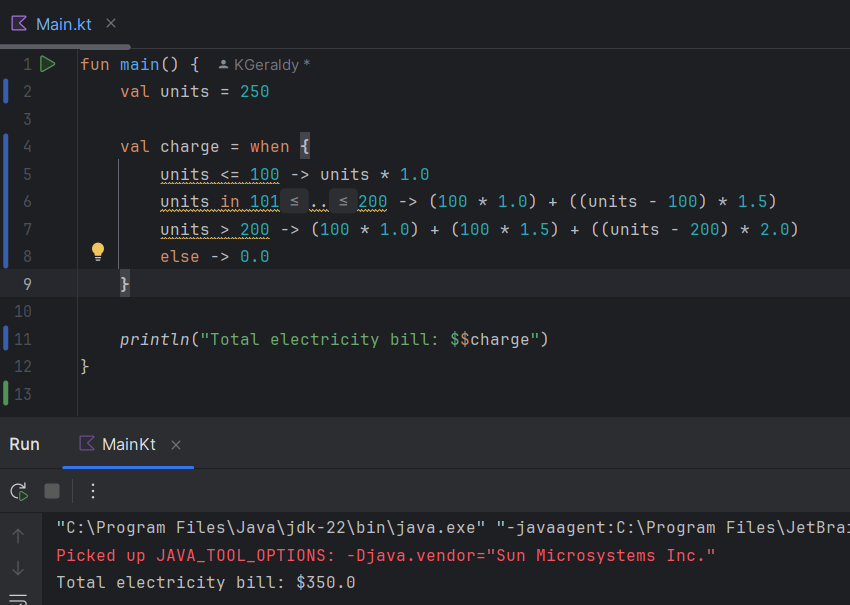
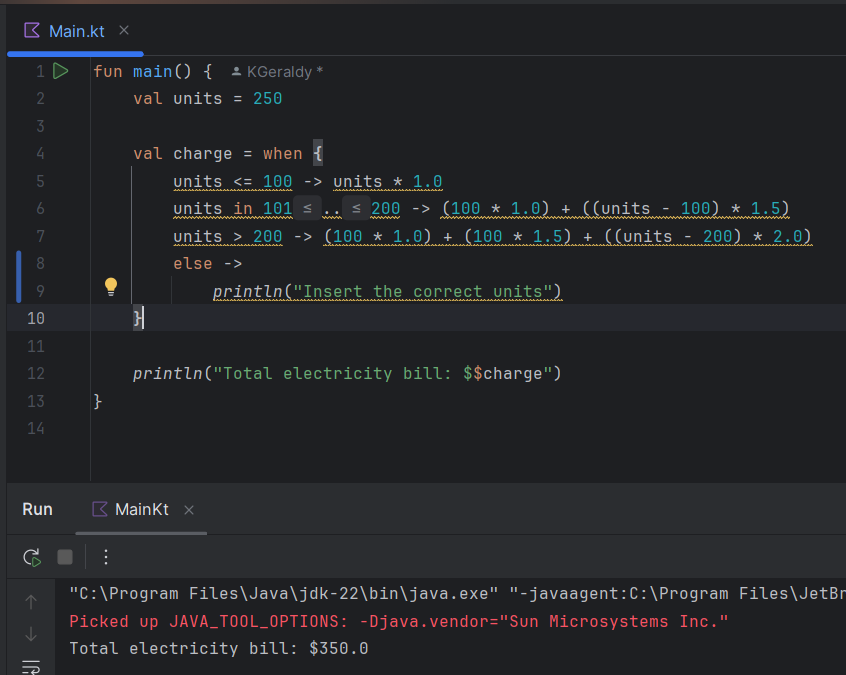
Add story4

diff --git a/exercise/day-1/HelloWorld/src/Main.kt b/exercise/day-1/HelloWorld/src/Main.kt
@@ -5,7 +5,8 @@ fun main() {
         units <= 100 -> units * 1.0
         units in 101..200 -> (100 * 1.0) + ((units - 100) * 1.5)
         units > 200 -> (100 * 1.0) + (100 * 1.5) + ((units - 200) * 2.0)
-        else -> 0.0
+        else ->
+            println("Insert the correct units")
     }
 
     println("Total electricity bill: $$charge")
